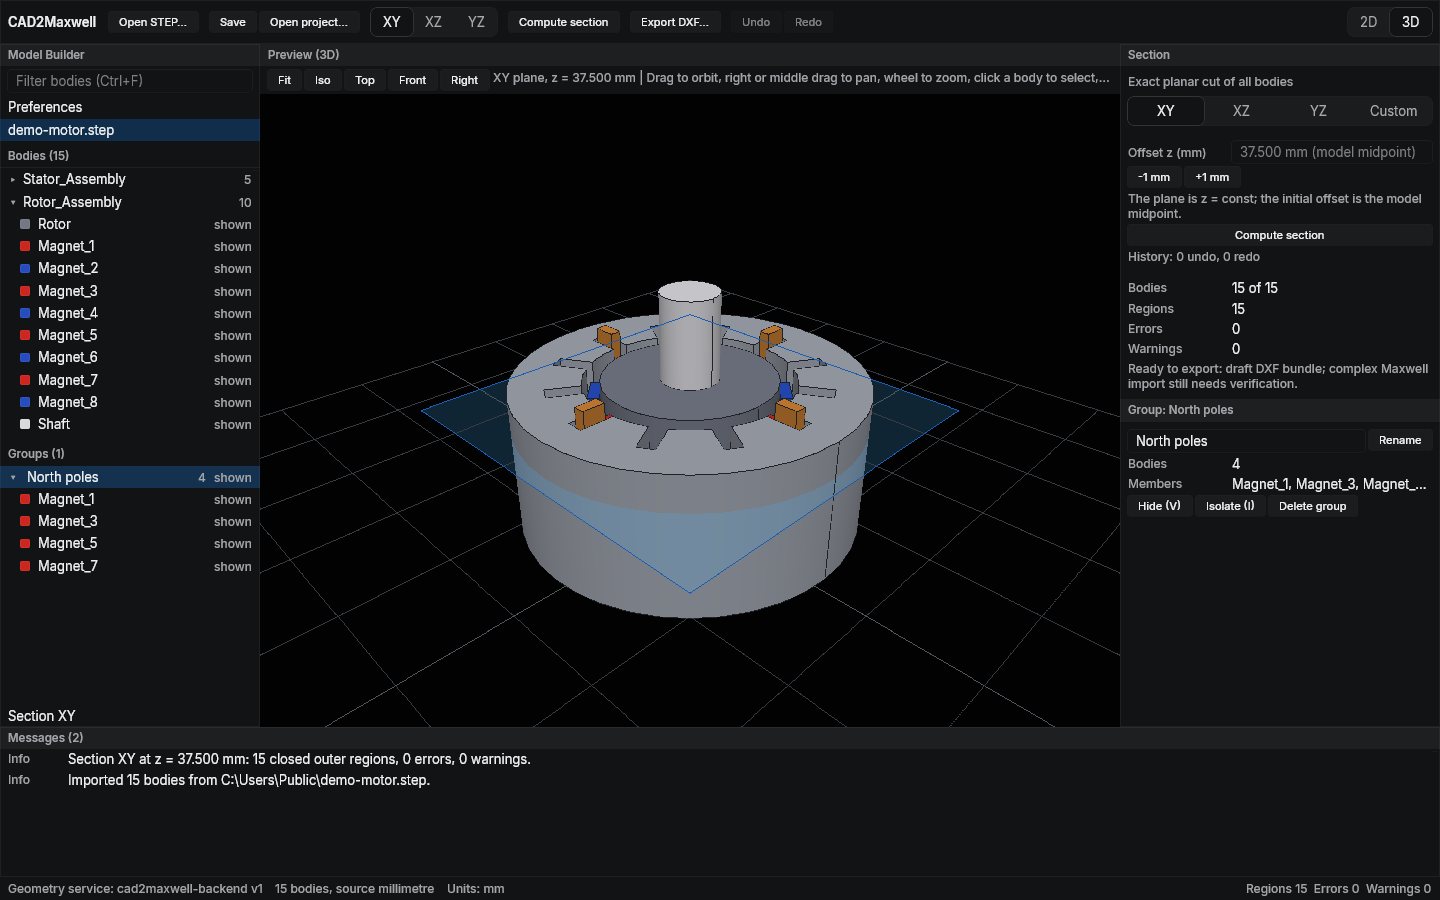
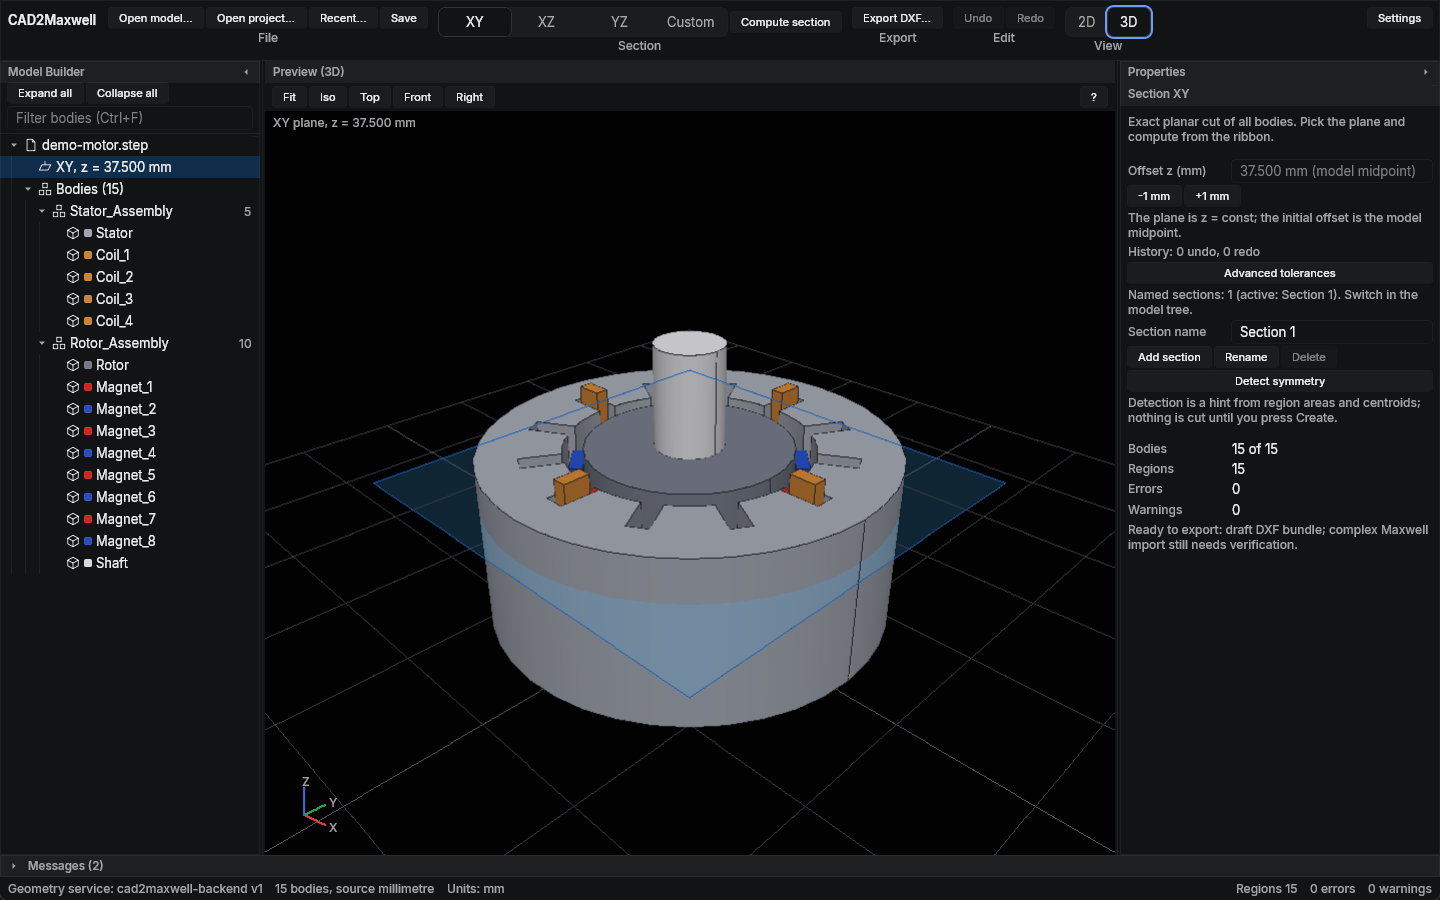
fix(2d): hole fills no longer fall back to wedge fans; new screenshots
The bridged hole polygon repeated the bridge vertices. Rune's ear test
skips ear corners by index, so the copies read as inside every bridge ear
and the triangulator fell back to a fan, drawing grey wedges over the
section in the real window. The way back now stops 0.01 pt short of both
bridge ends along their own edges. A regression test replays Rune's ear
clipping on a bridged annulus. Display only; export unchanged.

README screenshots retaken from the real app window (welcome screen,
2D section, 3D preview light and dark). Removed unused Tool::ALL/label
that failed clippy without --all-targets.

diff --git a/frontend/rune-app/src/ui/section_view/fill.rs b/frontend/rune-app/src/ui/section_view/fill.rs
@@ -56,6 +56,18 @@ fn cross(o: P, a: P, b: P) -> f64 {
     (a[0] - o[0]) * (b[1] - o[1]) - (a[1] - o[1]) * (b[0] - o[0])
 }
 
+/// `from` moved toward `to` by a slit width: 0.01 screen points (well above f32 resolution at
+/// screen coordinates, far below a pixel), at most a quarter of the edge.
+fn toward(from: P, to: P) -> P {
+    let (dx, dy) = (to[0] - from[0], to[1] - from[1]);
+    let len = dx.hypot(dy);
+    if len == 0.0 {
+        return from;
+    }
+    let t = (0.01 / len).min(0.25);
+    [from[0] + dx * t, from[1] + dy * t]
+}
+
 /// Segments `ab` and `cd` cross at an interior point of both.
 fn crosses(a: P, b: P, c: P, d: P) -> bool {
     let (d1, d2, d3, d4) = (
@@ -108,10 +120,13 @@ pub fn with_holes(outer: &[P], holes: &[&[P]]) -> Option<Vec<P>> {
         let at = cand.into_iter().find(|&i| clear(poly[i]))?;
         let v = poly[at];
         bridges.push((v, m));
-        let mut walk: Vec<P> = (0..=ring.len())
-            .map(|j| ring[(k + j) % ring.len()])
-            .collect();
-        walk.push(v);
+        // Rune's ear test skips ear corners by index, so a second vertex at the same spot as `m`
+        // or `v` reads as inside every bridge ear and Rune falls back to a fan (wedges). The way
+        // back therefore stops a hair short of both, on their own edges: a slit, not a seam.
+        let n = ring.len();
+        let mut walk: Vec<P> = (0..n).map(|j| ring[(k + j) % n]).collect();
+        walk.push(toward(m, ring[(k + n - 1) % n]));
+        walk.push(toward(v, poly[(at + 1) % poly.len()]));
         poly.splice(at + 1..at + 1, walk);
     }
     Some(poly)
@@ -130,8 +145,76 @@ mod tests {
         let outer = rect(0.0, 0.0, 10.0, 10.0);
         let (a, b) = (rect(2.0, 2.0, 4.0, 4.0), rect(6.0, 5.0, 8.0, 9.0));
         let poly = with_holes(&outer, &[&a, &b]).expect("bridged");
-        assert!((area(&poly).abs() - (100.0 - 4.0 - 8.0)).abs() < 1e-9);
+        // The two 0.01-wide tapered slits remove a sliver of area.
+        assert!((area(&poly).abs() - (100.0 - 4.0 - 8.0)).abs() < 0.1);
         assert_eq!(poly.len(), 4 + 2 * (4 + 2));
+    }
+
+    /// Rune's ear clipping (`rune::shape::triangulate`, pinned a7f276c, crate-private) step for
+    /// step: Some(triangle area) or None where Rune falls back to a fan and draws wedges.
+    fn rune_fill_area(points: &[P]) -> Option<f64> {
+        let n = points.len();
+        let ccw = area(points) > 0.0;
+        let cr = |a: P, b: P, c: P| {
+            let v = (b[0] - a[0]) * (c[1] - a[1]) - (b[1] - a[1]) * (c[0] - a[0]);
+            if ccw { v } else { -v }
+        };
+        let (mut ring, mut total, mut misses, mut i): (Vec<usize>, f64, usize, usize) =
+            ((0..n).collect(), 0.0, 0, 0);
+        while ring.len() > 3 {
+            let m = ring.len();
+            let (ia, ib, ic) = (ring[(i + m - 1) % m], ring[i % m], ring[(i + 1) % m]);
+            let (a, b, c) = (points[ia], points[ib], points[ic]);
+            let empty = cr(a, b, c) > 0.0
+                && ring.iter().all(|&k| {
+                    k == ia || k == ib || k == ic || {
+                        let p = points[k];
+                        !(cr(a, b, p) >= 0.0 && cr(b, c, p) >= 0.0 && cr(c, a, p) >= 0.0)
+                    }
+                });
+            if empty || (misses >= m && cr(a, b, c) == 0.0) {
+                if empty {
+                    total += cr(a, b, c).abs() / 2.0;
+                }
+                ring.remove(i % m);
+                misses = 0;
+                i %= ring.len();
+            } else {
+                misses += 1;
+                if misses > 2 * m {
+                    return None;
+                }
+                i = (i + 1) % m;
+            }
+        }
+        let (a, b, c) = (points[ring[0]], points[ring[1]], points[ring[2]]);
+        Some(total + cr(a, b, c).abs() / 2.0)
+    }
+
+    fn circle(cx: f64, cy: f64, r: f64, n: usize) -> Vec<P> {
+        (0..n)
+            .map(|i| {
+                let t = std::f64::consts::TAU * i as f64 / n as f64;
+                [cx + r * t.cos(), cy + r * t.sin()]
+            })
+            .collect()
+    }
+
+    #[test]
+    fn rune_triangulates_a_bridged_annulus_without_falling_back_to_a_fan() {
+        // A rotor lamination: disc with a shaft hole and an off-centre magnet pocket.
+        let outer = circle(400.0, 300.0, 200.0, 96);
+        let (shaft, pocket) = (
+            circle(400.0, 300.0, 50.0, 48),
+            rect(520.0, 280.0, 560.0, 320.0),
+        );
+        let poly = with_holes(&outer, &[&shaft, &pocket]).expect("bridged");
+        let want = area(&outer).abs() - area(&shaft).abs() - area(&pocket).abs();
+        let got = rune_fill_area(&poly).expect("Rune would fall back to a fan");
+        assert!(
+            (got - want).abs() < want * 1e-4,
+            "filled {got}, want {want}"
+        );
     }
 
     #[test]

diff --git a/frontend/rune-app/src/state/section/measure.rs b/frontend/rune-app/src/state/section/measure.rs
@@ -15,18 +15,6 @@ pub enum Tool {
     Radius,
 }
 
-impl Tool {
-    pub const ALL: [Tool; 3] = [Tool::Select, Tool::Distance, Tool::Radius];
-
-    pub fn label(self) -> &'static str {
-        match self {
-            Tool::Select => "Select",
-            Tool::Distance => "Distance",
-            Tool::Radius => "Radius",
-        }
-    }
-}
-
 #[derive(Debug, Clone, PartialEq)]
 pub enum Reading {
     Distance { from: P, to: P },

diff --git a/README.md b/README.md
@@ -15,7 +15,7 @@
 [![License: MIT](https://img.shields.io/badge/license-MIT-blue.svg)](LICENSE)
 ![Platform](https://img.shields.io/badge/platform-Windows%20x64-0078d4)
 
-<img src="docs/images/section-2d.png" alt="Exact XY section of the demo motor next to the Model Builder with stator and rotor assembly folders and a North poles group" width="900">
+<img src="docs/images/section-2d.png" alt="Exact XY section of the demo motor: Model Builder tree with stator and rotor assemblies, 2D view with scale bar and axes, section properties" width="900">
 
 </div>
 
@@ -80,6 +80,8 @@ back to its source body.
 3. Pick a plane (keys **1 / 2 / 3**) and set the offset in **Section**. For a tilted lamination, select one sheet and click **Align to selected body**.
 4. **Compute** (Ctrl+Enter), then **DXF** (Ctrl+E). The ZIP holds `section.dxf` (1:1, mm) and `section.json`.
 5. Import the DXF into Maxwell 2D with the [Maxwell import checklist](docs/maxwell-import-checklist.md).
+
+<img src="docs/images/welcome.png" alt="Welcome screen with Open model, Open project, Open demo motor, recent projects and the documentation link" width="720">
 
 The [walkthrough](docs/first-trial.md) has details and troubleshooting.
 

diff --git a/CHANGELOG.md b/CHANGELOG.md
@@ -1,5 +1,10 @@
 # Changelog
 
+## Unreleased
+
+- Fixed: 2D region fills with holes (shaft bore, magnet pockets) drew grey wedge artifacts in the running app. The bridged hole polygon repeated two vertices, which made the renderer's ear clipping fall back to a fan. The return path of each bridge now ends a 0.01 pt slit away, and a regression test runs the renderer's triangulation. Display only; export is unchanged.
+- README screenshots retaken from the real app window (welcome screen, 2D section with the fill fix, 3D preview light and dark).
+
 ## 0.3.0
 
 Workspace
